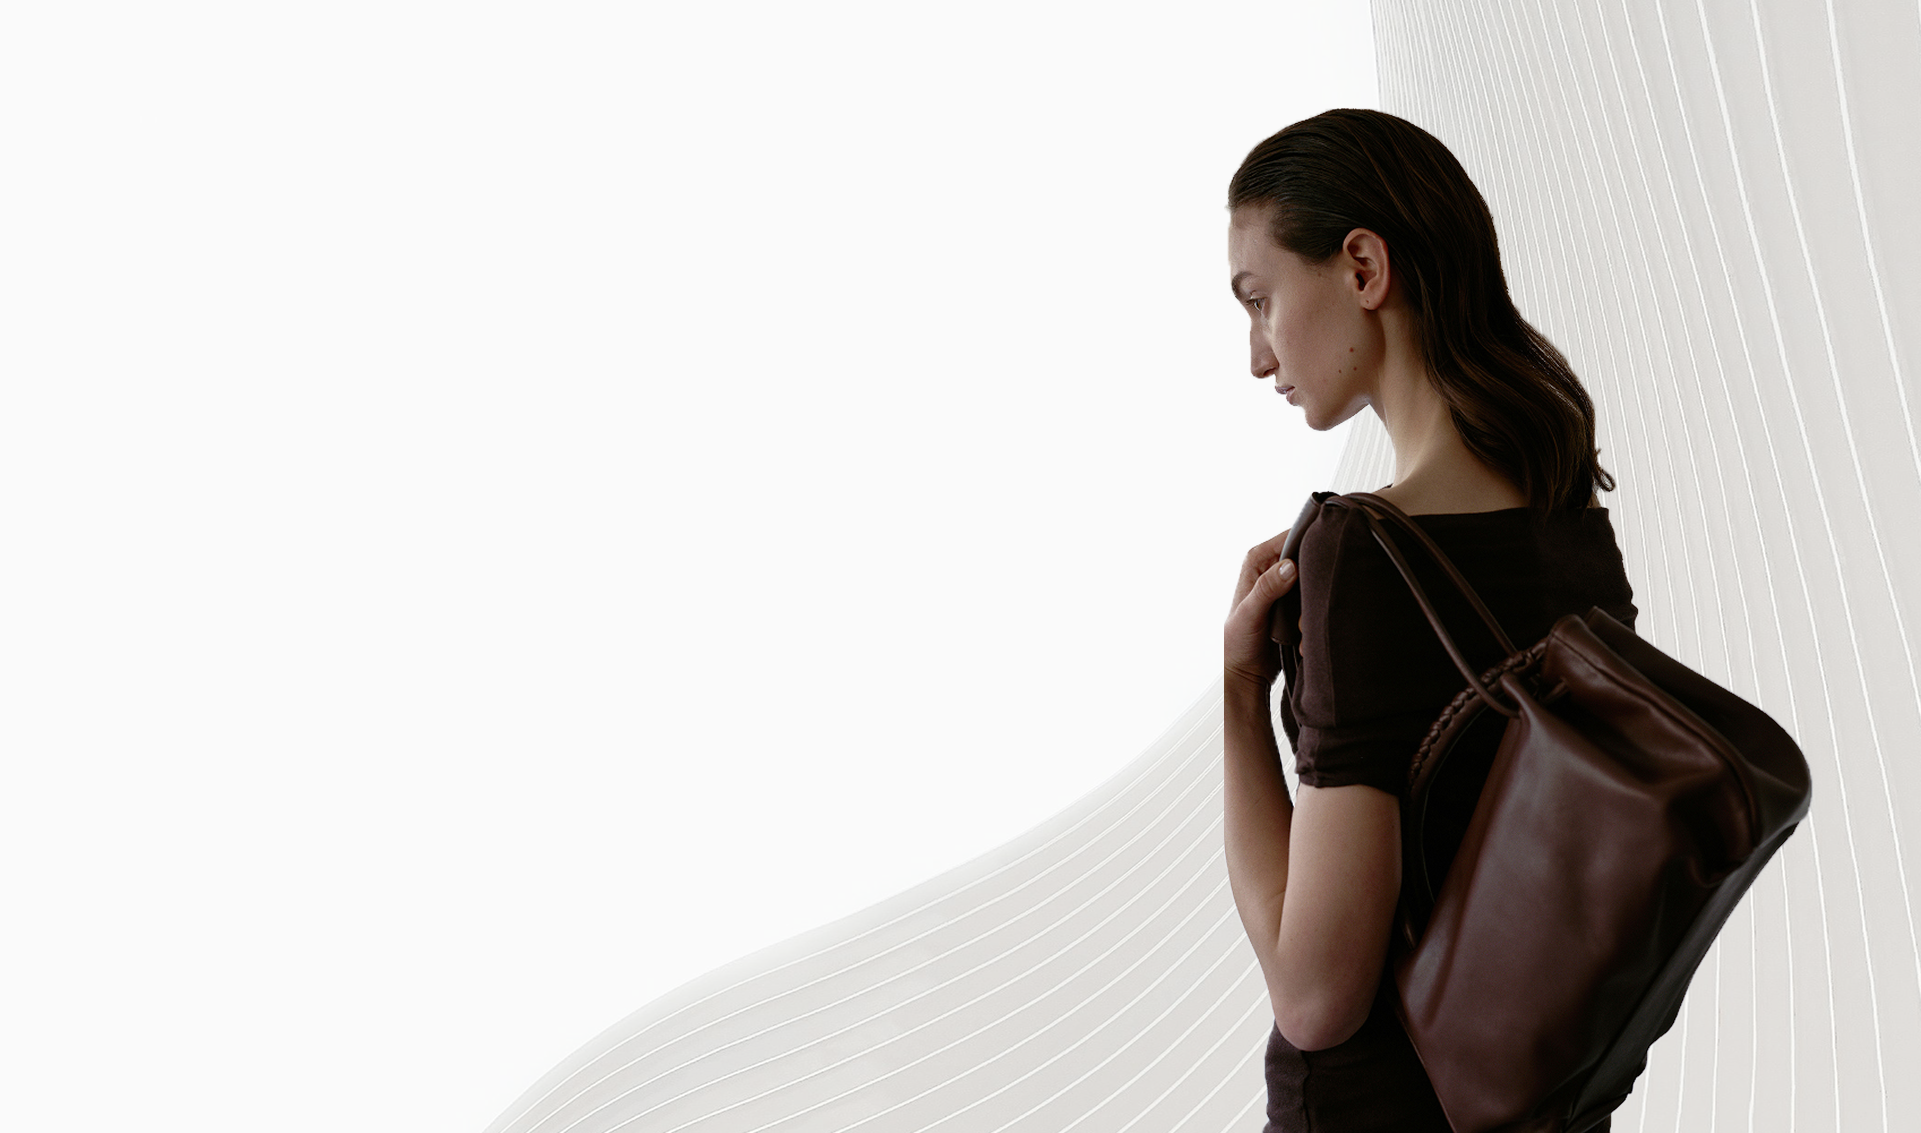
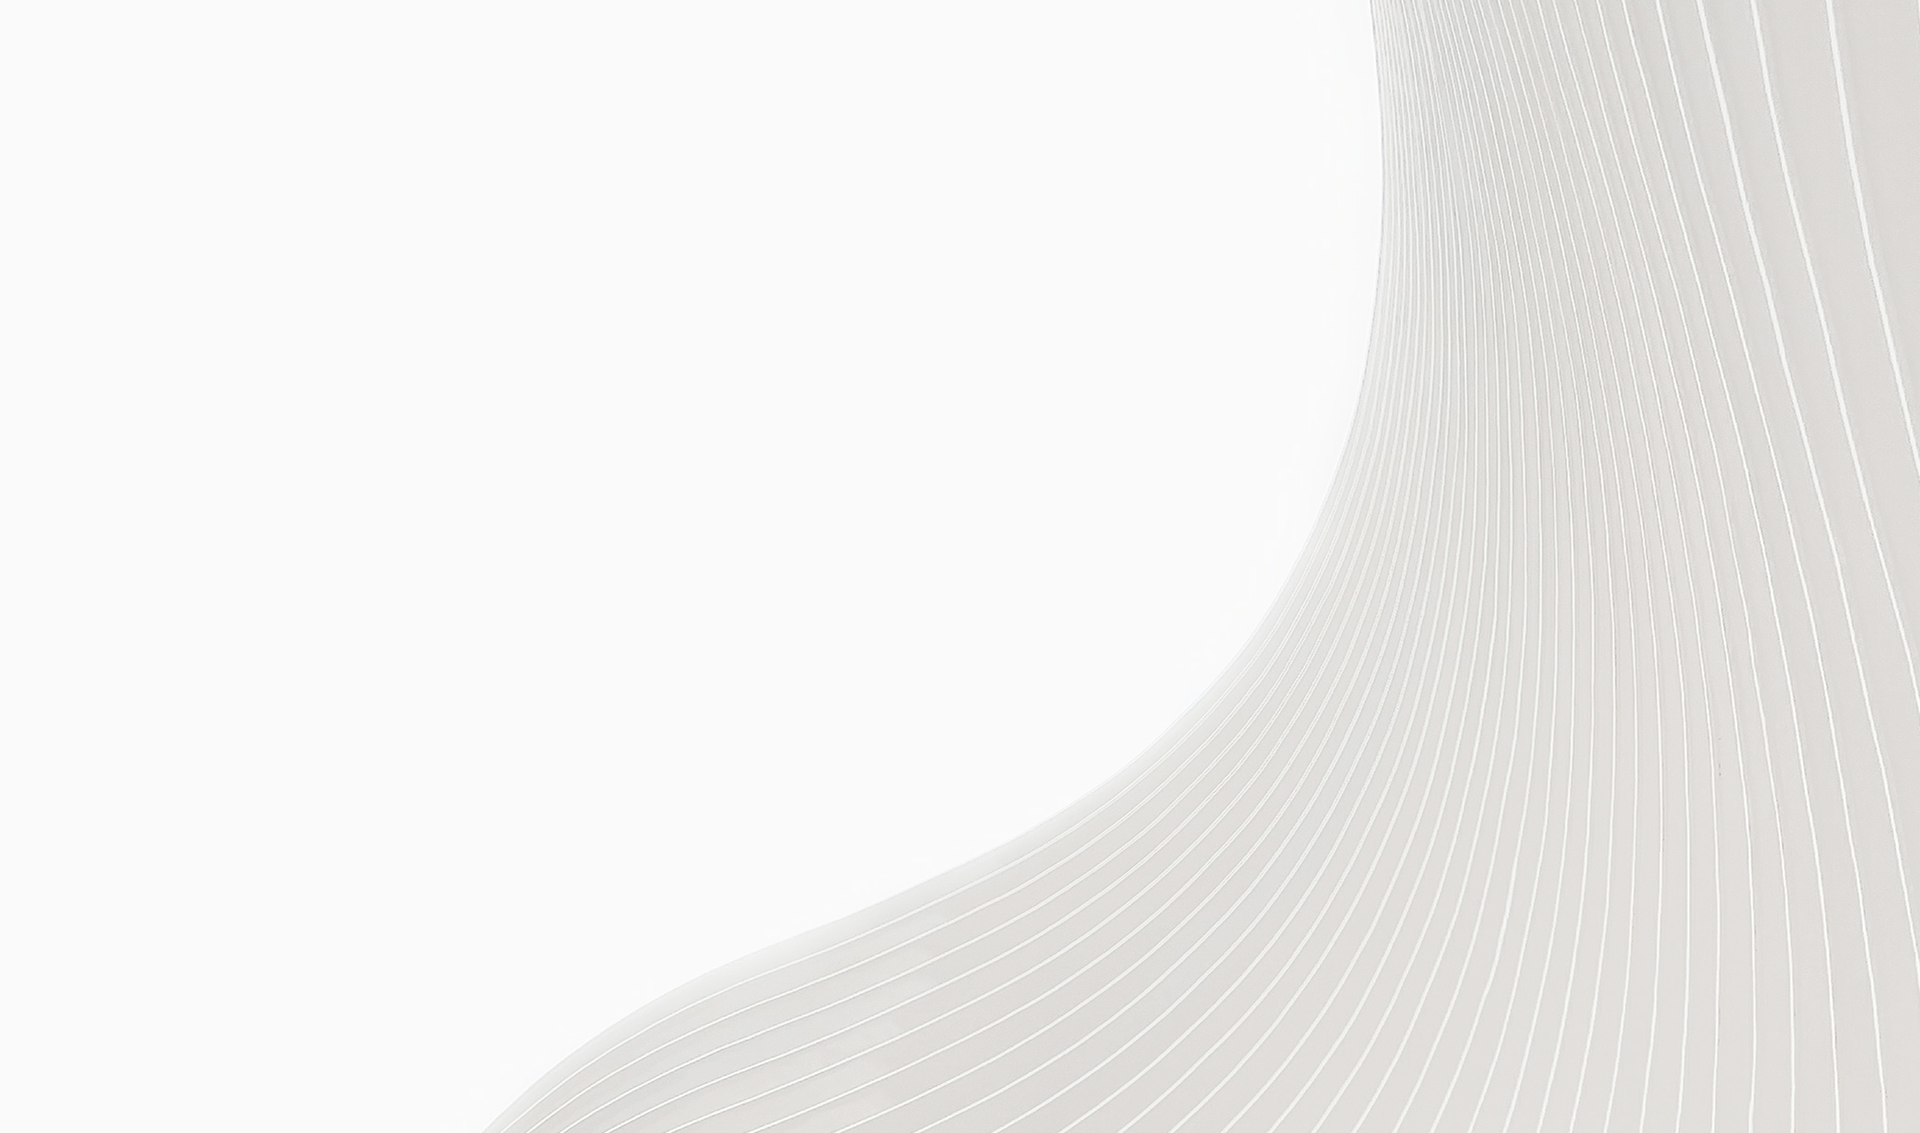
5-8
수정

Changed region(s): [[0.625, 0.0927, 0.9688, 1.0]]

diff --git a/script/index.html b/script/index.html
@@ -46,8 +46,6 @@
         <div class="about-wrapper">
             <div class="about-text">
                 <h2><em>gu_de;</em> a new classic</h2>
-
-
                 <h3>welcome to <br> gude</h3>
                 <p>
                     구드(gu_de)는 스코틀랜드식 'good'의 발음을
@@ -57,6 +55,7 @@
                     디테일을 통해, <br> 일상 속에서 오래도록 빛나는 가치를 전합니다.
                 </p>
             </div>
+            <img src="/img/about_right.png" alt="가방을 든 모델 이미지">
         </div>
     </section>
 

diff --git a/script/css/style.css b/script/css/style.css
@@ -86,7 +86,7 @@ body {
   content: "";
   position: absolute;
   top: -130px;
-  bottom: -283px;
+  bottom: -185px;
   left: 0;
   right: 0;
   background-image: url(/img/about3.png);
@@ -107,11 +107,13 @@ body {
 .about-wrapper {
   margin: 250px 80px;
   display: flex;
-  gap: 220px;
+  gap: 100px;
+  justify-content: center;
 }
 
-.about-text {
-  margin-left: 208px;
+.about-wrapper img {
+  width: 650px;
+  height: 750px;
 }
 
 .about-text h2 {
@@ -132,6 +134,8 @@ body {
   font-size: 24px;
   line-height: 1.8;
 }
+
+
 
 
 /* Collection Preview */
